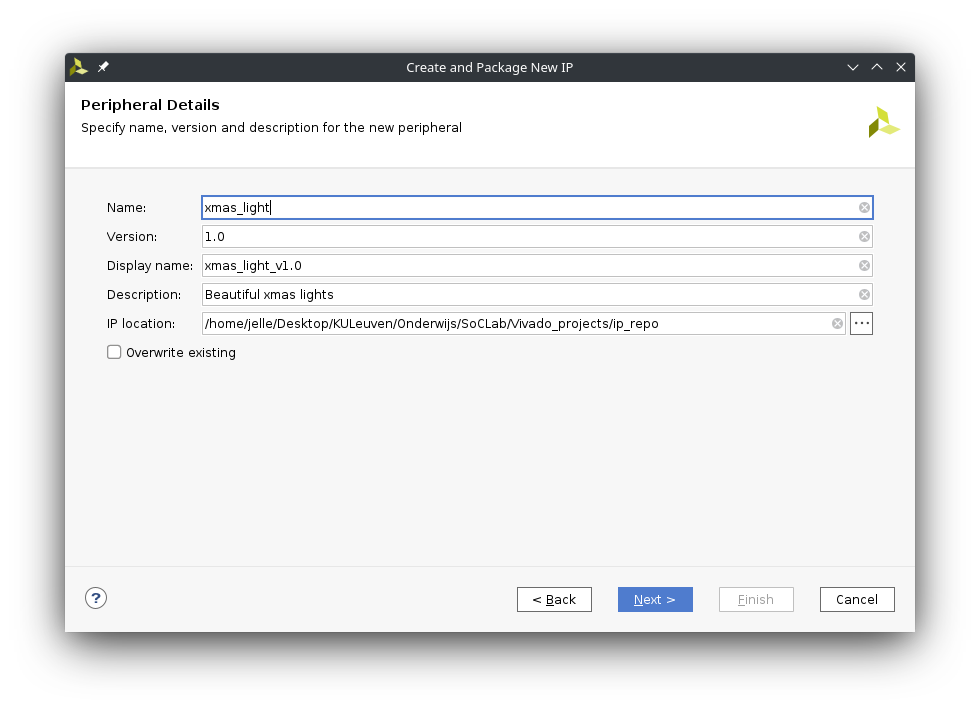
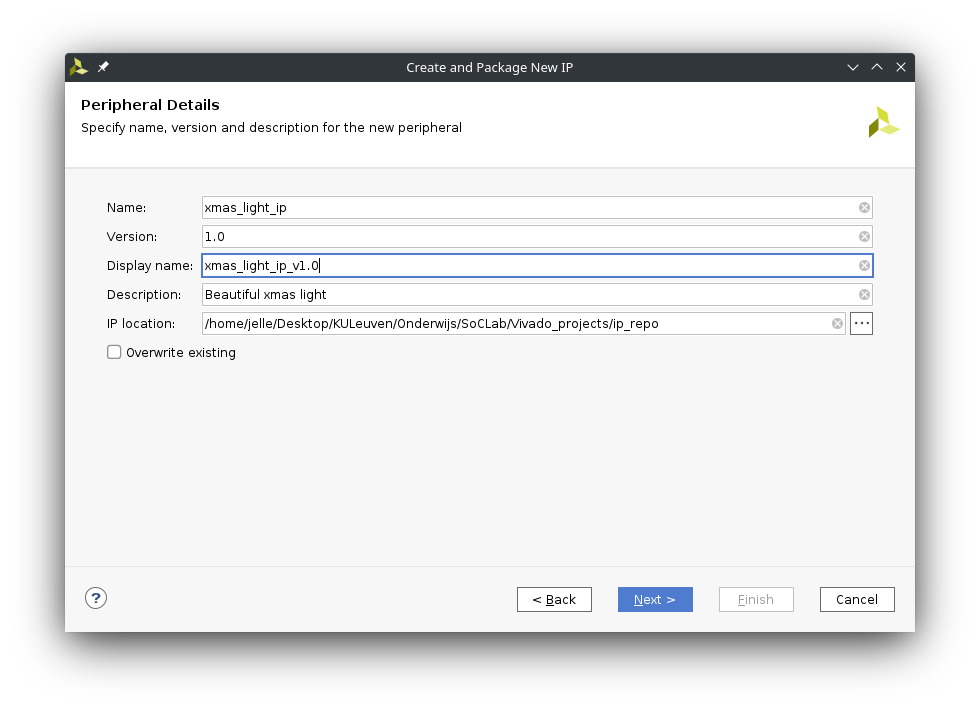
Changed name of IP for newer vivado versions

Changed region(s): [[0.2755, 0.3413, 0.3367, 0.4034], [0.2755, 0.2793, 0.3061, 0.3103]]

diff --git a/content/ch2_soc/1_soc.md b/content/ch2_soc/1_soc.md
@@ -78,9 +78,12 @@ You start by pressing next and in the next box you say "Create a new AXI4 periph
 In the details you give it a name and you can also give it a description.
 
 {{% notice note %}}
-Do not forget to change the **IP Location** or at note down where it is saved!
+Do not forget to change the **IP Location** or note down where it is saved!
 {{% /notice %}}
 
+{{% notice note %}}
+For Vivado versions newer then **2024.1** make sure that the name is **different** from xmas_light. This can be done by adding *_ip* to the name.
+{{% /notice %}}
 
 {{% figure src="/img/ch2/peripheral_details.png" title="Peripheral details" %}}
 
